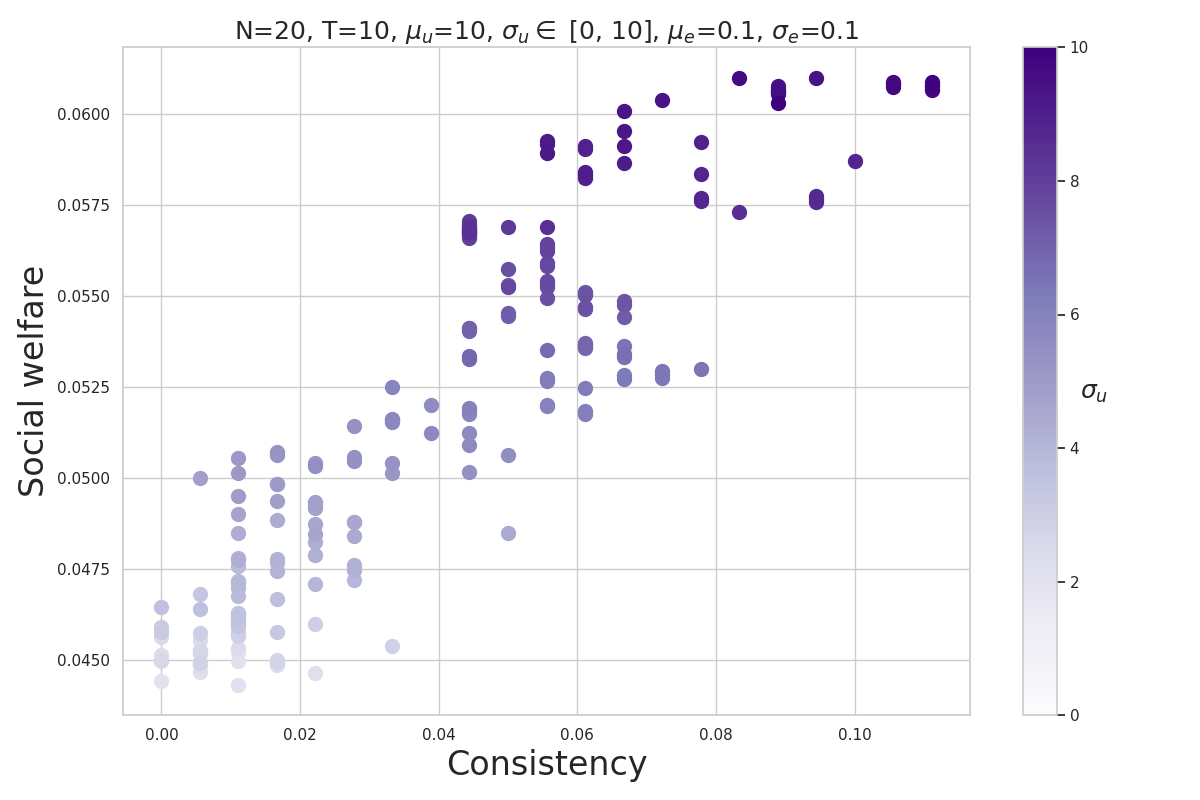
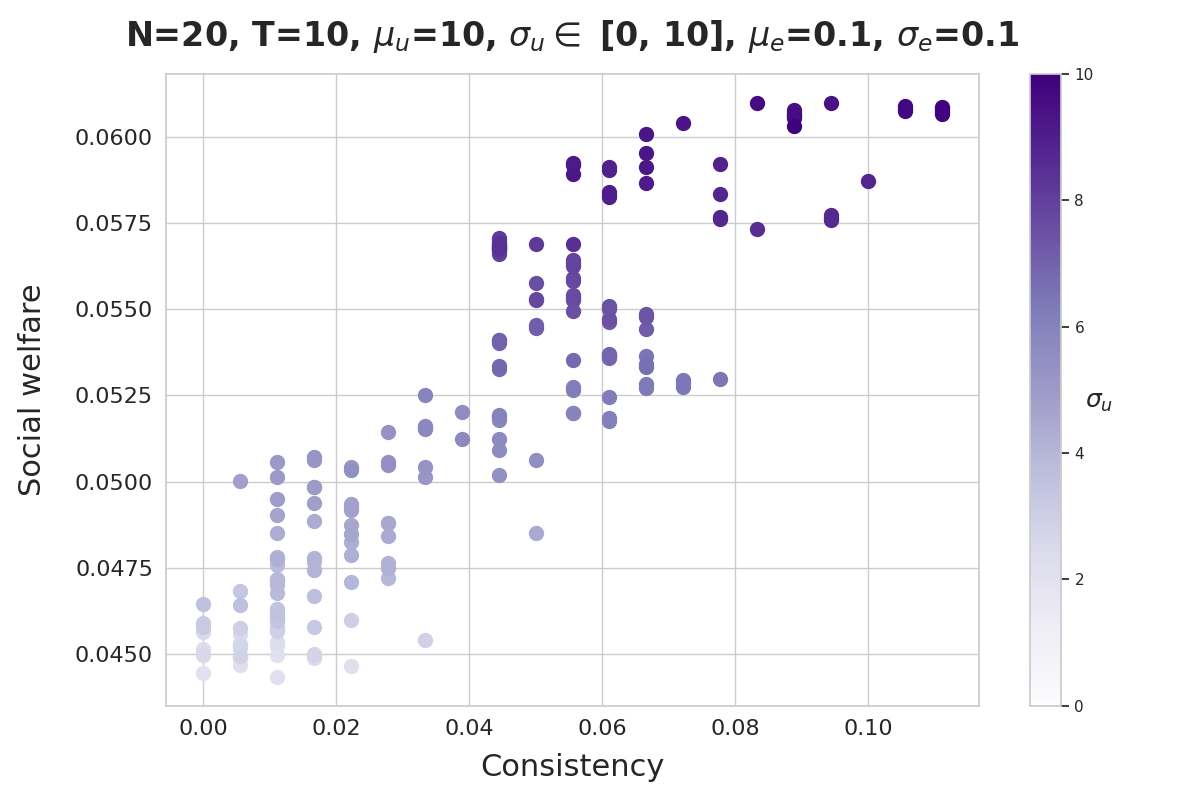
Update figures

diff --git a/code/visualization.py b/code/visualization.py
@@ -54,16 +54,18 @@ def plot_tradeoff_hue_fixed_mean(sw_all, consistency_all,
                        label=f'$\mu={mean}, \sigma^2={var}$'
                        )
     box = ax.get_position()
-    ax.set_position([box.x0, box.y0, box.width * 0.88, box.height])
-    plt.xlabel('Consistency', fontsize=24)
-    plt.ylabel('Social welfare', fontsize=24)
+    # ax.set_position([box.x0, box.y0, box.width * 0.88, box.height])
+    plt.xlabel('Consistency', fontsize=22, labelpad=10)
+    plt.ylabel('Social welfare', fontsize=22, labelpad=20)
+    plt.xticks(fontsize=16)
+    plt.yticks(fontsize=16)
     # ax.legend(title=annotations_title, bbox_to_anchor=(
     #     1.02, 1.12), loc=2, borderaxespad=0.)
     cbar = fig.colorbar(cm.ScalarMappable(
         norm=matplotlib.colors.Normalize(min_val, max_val),
         cmap=maps[0]), ax=ax)
     cbar.set_label(colobar_title, fontsize=18, rotation=0)
-    plt.title(title, fontsize=18)
+    plt.title(title, fontsize=24, pad=20, fontweight='bold')
     if fpath is not None:
         os.makedirs(os.path.dirname(fpath), exist_ok=True)
         plt.tight_layout()
